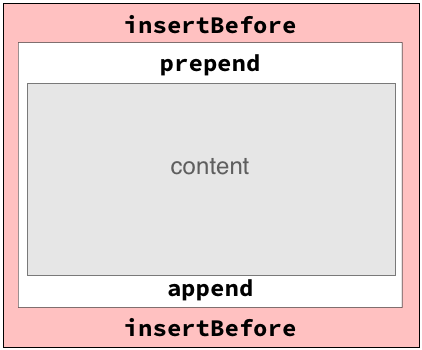
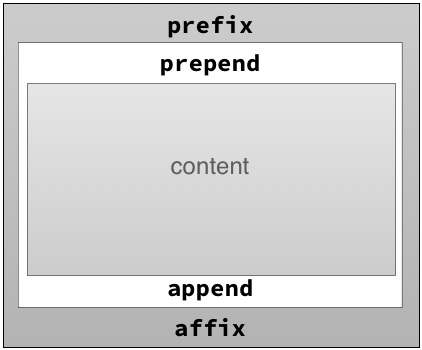
Added Ajax, renamed methods

Changed region(s): [[0.0, 0.0, 1.0, 1.0]]

diff --git a/dom.js b/dom.js
@@ -2,7 +2,6 @@
 	================================================
 	DOM Manipulation Functions
 	================================================ */
-
 		var DOM={
 			//	Returns an element or true array of elements
 				select: function(selector) {
@@ -35,7 +34,7 @@
 				================================================ */
 
 			//	Add element to or around another
-				insertBefore: function(newElement,element) {
+				prefix: function(newElement,element) {
 					element.parentNode.insertBefore(newElement,element);
 				},
 				prepend: function(newElement,element) {
@@ -44,12 +43,12 @@
 				append: function(newElement,element) {
 					element.appendChild(newElement);
 				},
-				insertAfter: function(newElement,element) {
+				affix: function(newElement,element) {
 					element.parentNode.insertBefore(newElement, element.nextSibling);
 				},
 
 			//	Add html to or around another element
-				insertHTMLBefore: function(html,element) {
+				prefixHTML: function(html,element) {
 					element.insertAdjacentHTML('beforebegin', html);
 				},
 				prependHTML: function(html,element) {
@@ -58,7 +57,7 @@
 				appendHTML: function(html,element) {
 					element.insertAdjacentHTML('beforeend', html);
 				},
-				insertHTMLAfter: function(html,element) {
+				affixHTML: function(html,element) {
 					element.insertAdjacentHTML('afterend', html);
 				},
 
@@ -69,6 +68,84 @@
 					if(value===undefined) value=true;
 					if(!element.hasAttribute(attribute)) element.setAttribute(attribute,value);
 					else element.removeAttribute(attribute);
-				}
+				},
+
+			//	Wrapping Content
+
+				wrap: function(element,wrapper) {
+					element.parentNode.insertBefore(wrapper, element);
+					wrapper.appendChild(element);
+					return wrapper;
+				},
+
+				wrapAll: function(elements, wrapper) {
+					elements[0].parentNode.insertBefore(wrapper, elements[0]);
+					for(var i=0;i<elements.length;i++) wrapper.appendChild(elements[i]);
+					return wrapper;
+				},
+				unwrap: function(element,totally) {
+					var parent=element.parentNode;
+					parent.parentNode.insertBefore(element,parent);
+					if(totally) parent.parentNode.removeChild(parent);
+					return element;
+				},
+
+			//	Empty Element
+
+				empty: function(element) {
+					element.innerHTML='';
+				},
+
+			//	Scroll Position
+
+				scrollPosition: function() {
+					return {
+						left: window.pageXOffset || document.documentElement.scrollLeft,
+						top: window.pageYOffset || document.documentElement.scrollTop
+					};
+				},
+
+			//	Bounding Rectangle
+
+				boundingRect: function(element,documentRelative) {
+					var rect=element.getBoundingClientRect();
+					var pos=DOM.scrollPosition();
+					var scrollLeft=documentRelative?pos.left:0;
+					var scrollTop=documentRelative?pos.top:0;
+					return {
+						'x':			rect.left-scrollLeft,
+						'y':			rect.top-scrollTop,
+						'width':		rect.right-rect.left,
+						'height':		rect.bottom-rect.top,
+						'left':			rect.left-scrollLeft,
+						'top':			rect.top-scrollTop,
+						'right':		rect.right-scrollLeft,
+						'bottom':		rect.bottom-scrollTop,
+						'scrollLeft':	pos.left,
+						'scrollTop':	pos.top,
+					};
+				},
+
+			//	Ajax
+
+				get: function(url,callback,query) {
+					var xhr=new XMLHttpRequest();
+					if(query) url+='?'+query;
+					xhr.open('get',url,true);
+					xhr.onload=function() {
+						if(callback) callback(this.responseText);
+					}
+					xhr.send(null);
+				},
+				loadHTML: function(element,url,query) {
+					this.get(url,function(data) {
+						element.innerHTML=data;
+					},query);
+				},
+				loadText: function(element,url,query) {
+					this.get(url,function(data) {
+						element.textContent=data;
+					},query);
+				},
 
 		};
